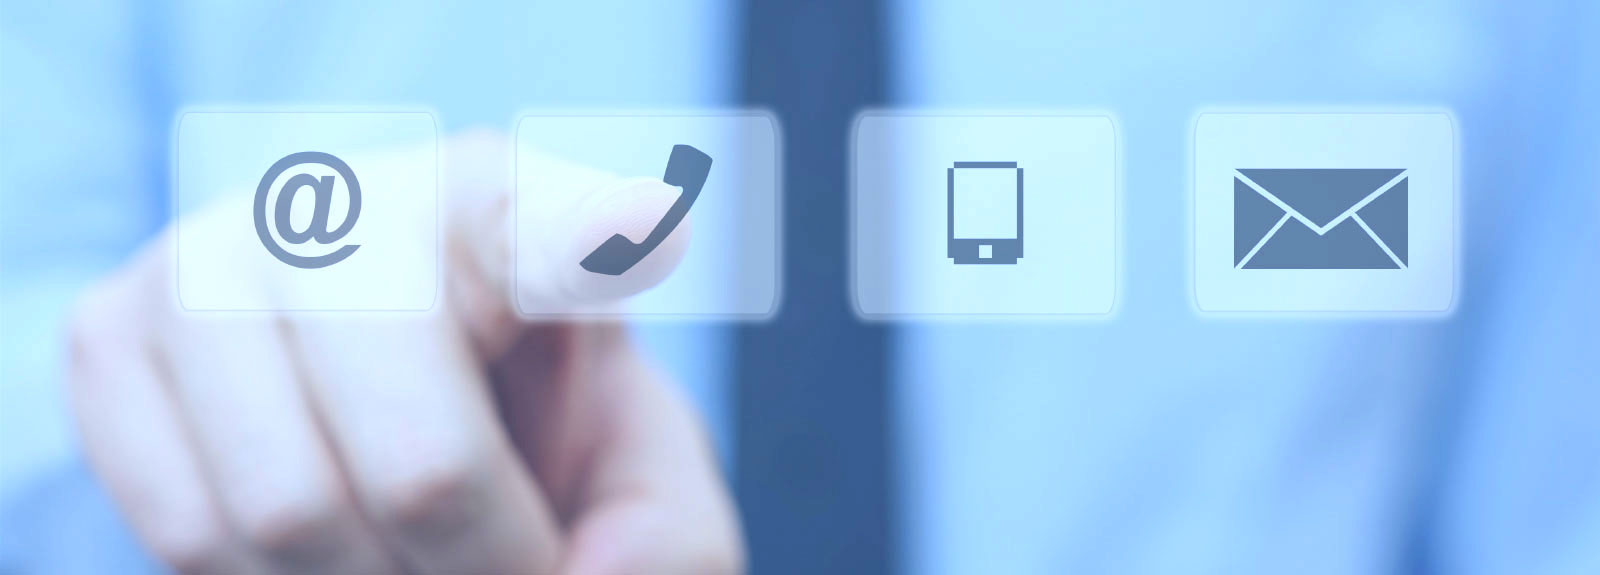
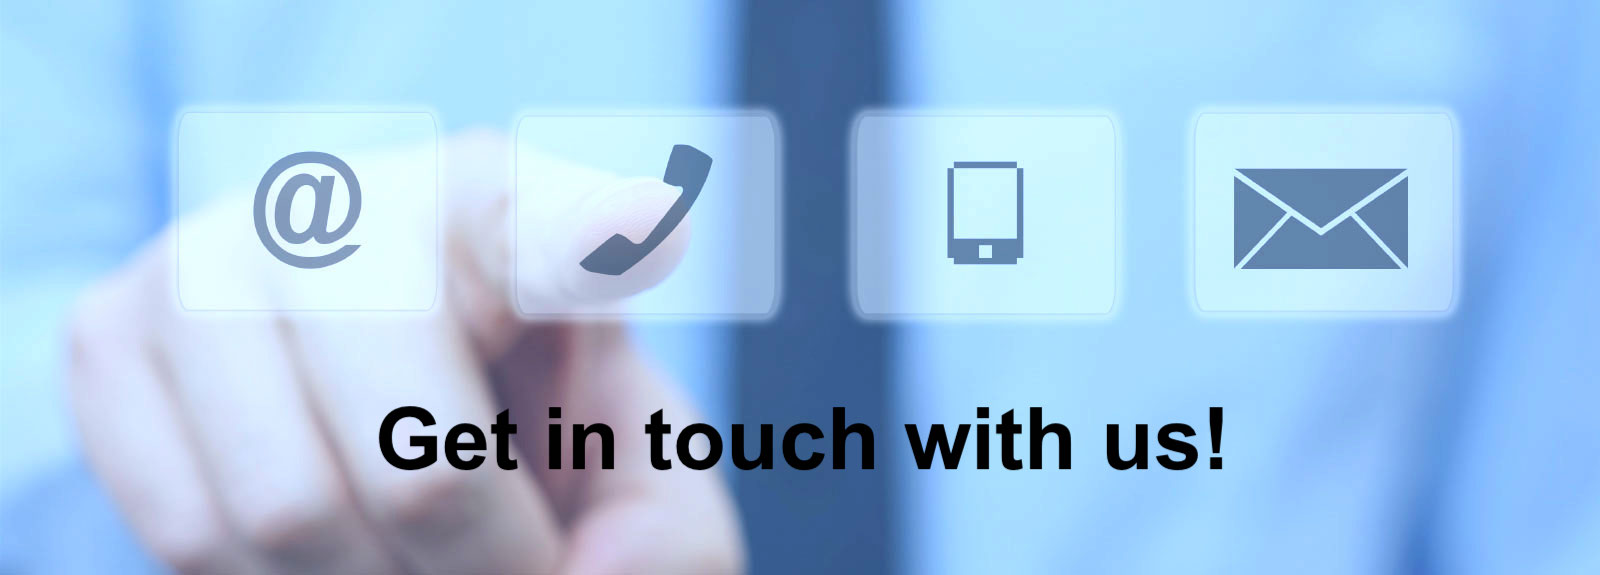
update layout

Changed region(s): [[0.2188, 0.7096, 0.7812, 0.8278]]

diff --git a/pages/AboutUs.vue b/pages/AboutUs.vue
@@ -3,80 +3,82 @@
     <Breadcumb
       :group="'About Us'"
     ></Breadcumb>
-  <div class="container">
-    <br>
-    <h2 class="title-topic-single">About Us</h2>
-    <hr>
-    <br>
-    <br>
-    <br>
-    <div class="row">
-      <div class="col-sm align-self-center">
-        <img class="rounded img-aboutus img-fluid" src="~/assets/img/aboutus1.jpg">
-      </div>
-      <div class="col-sm align-self-center">
-        <p>Founded in Italy in 2000, today TopTech is a multinational group that focuses its consulting offering on
-          hard technology challenges with large-scale business impact in data bases, security, IoT and machine
-          learning.</p>
-      </div>
-    </div>
-    <br>
-    <br>
-    <br>
-    <div class="row">
-      <div class="col-sm align-self-center">
-        <p>TopTech started as a research spinoff at Politecnico of Milan and was incubated at its startup accelerator.
-          Data and experimentation are part of our DNA.</p>
-      </div>
-      <div class="col-sm align-self-center">
-        <img class="rounded img-aboutus img-fluid" src="~/assets/img/aboutus2.jpg">
-      </div>
-    </div>
-    <br>
-    <br>
-    <br>
-    <div class="row">
-      <div class="col-sm align-self-center">
-        <img class="rounded img-aboutus img-fluid" src="~/assets/img/aboutus3.jpg">
-      </div>
-      <div class="col-sm align-self-center">
-        <p>We believe that science and engineering need to be seen as one. It is for this reason that we continuously
-          focus on research, emerging ideas, and new technologies, routinely partnering with top academic and
-          engineering research institutions.</p>
-      </div>
-    </div>
-    <br>
-    <br>
-    <br>
-    <div class="row">
-    <div class="col-sm align-self-center">
-      <p>In all we do, our goal is to build trusted relationships through client proximity, providing industry and
-        technology expertise to help you meet the needs of your customers and citizens. </p>
-    </div>
-    <div class="col-sm align-self-center">
-      <img class="img-aboutus rounded img-fluid" src="~/assets/img/aboutus4.jpg">
-    </div>
-  </div>
-    <h4 class="secondary-title">Leadership Team</h4>
-    <hr>
     <div class="container">
-      <div class="row" >
-        <div class="col-lg-4 col-sm-12"  v-for="item in managers"
-             v-bind:key="item.id">
-          <ItemPerson
-            :name="item.name"
-            :surname="item.surname"
-            :role="item.role"
-            :url = "item.id_image"
-            :id="item.id"
-          />
+      <br>
+      <div class="row">
+        <div class="col-sm align-self-center">
+          <img class="rounded img-aboutus img-fluid" src="~/assets/img/aboutus1.jpg">
+        </div>
+        <div class="col-sm align-self-center">
+          <p>Founded in Italy in 2000, today TopTech is a multinational group that focuses its consulting offering on
+            hard technology challenges with large-scale business impact in data bases, security, IoT and machine
+            learning.</p>
         </div>
       </div>
       <br>
       <br>
+      <br>
+      <div class="row">
+        <div class="col-sm align-self-center">
+          <p>TopTech started as a research spinoff at Politecnico of Milan and was incubated at its startup accelerator.
+            Data and experimentation are part of our DNA.</p>
+        </div>
+        <div class="col-sm align-self-center">
+          <img class="rounded img-aboutus img-fluid" src="~/assets/img/aboutus2.jpg">
+        </div>
+      </div>
+      <br>
+      <br>
+      <br>
+      <!--<div class="row">
+        <div class="col-sm align-self-center">
+          <img class="rounded img-aboutus img-fluid" src="~/assets/img/aboutus3.jpg">
+        </div>
+        <div class="col-sm align-self-center">
+          <p>We believe that science and engineering need to be seen as one. It is for this reason that we continuously
+            focus on research, emerging ideas, and new technologies, routinely partnering with top academic and
+            engineering research institutions.</p>
+        </div>
+      </div>-->
+      <br>
+      <br>
+      <br>
     </div>
-
-  </div>
+    <div style="background: #0071CE">
+      <br>
+      <div class="container">
+      <h4 class="secondary-title text-light">Leadership Team</h4>
+      <hr style="border: 1px solid white;">
+      <div class="container">
+        <div class="row" >
+          <div class="col-lg-4 col-sm-12"  v-for="item in managers"
+               v-bind:key="item.id">
+            <ItemPerson
+              :name="item.name"
+              :surname="item.surname"
+              :role="item.role"
+              :url = "item.id_image"
+              :id="item.id"
+            />
+          </div>
+        </div>
+        <br>
+        <br>
+      </div>
+      </div>
+    </div>
+    <div class="container">
+      <br><br>
+      <div class="row">
+        <div class="col-sm align-self-center">
+          <p>In all we do, our goal is to build trusted relationships through client proximity, providing industry and
+            technology expertise to help you meet the needs of your customers and citizens. </p>
+        </div>
+        <div class="col-sm align-self-center">
+          <img class="img-aboutus rounded img-fluid" src="~/assets/img/aboutus4.jpg">
+        </div>
+      </div>
+    </div>
   </div>
 </template>
 

diff --git a/pages/Contact.vue b/pages/Contact.vue
@@ -4,18 +4,14 @@
       :group="'Contact'"
     ></Breadcumb>
     <div class="container">
-      <br>
-      <h1 class="title-topic-single">Contact</h1>
-      <hr>
       <div class="image-contact" id="text">
         <img class="img-thumbnail img-class small_img img-responsive" src="../assets/img/Contact-Us-Header.jpg" width=80% height=80%>
-        <p class="font-italic" style="font-size: 28px;">Get in touch with us!</p>
       </div>
-      <div class="container">
+      <div class="container" >
         <div class="row">
-          <div class="col-8">
-            <div class="container">
-              <div class="row margin-grid">
+          <div class="col-8" >
+            <div class="container" style="background: #0071CE">
+              <div class="row margin-grid text-center"  >
                 <div class="col-md-6 px-2"><a class="title-city">Italy - Milan</a>
                   <br>
                   <a class="address">
@@ -31,7 +27,7 @@
                     T: +1 617 936 0212</a>
                 </div>
               </div>
-              <div class="row">
+              <div class="row text-center">
                 <div class="col-md-6 px-2 "><a class="title-city">
                   USA - Los Angeles
                 </a>
@@ -58,10 +54,17 @@
       <br>
       <div class="container">
         <div class="row">
-          <div class="col"></div>
+          <div class="col">
+            <div id="alert_message" style="text-align: center; visibility: hidden" class="alert alert-primary" role="alert">
+              Message sent correctly!
+            </div>
+            <div id="alert_message_error" style="text-align: center; visibility: hidden" class="alert alert-primary" role="alert">
+              Error. Message not sent!
+            </div>
+          </div>
           <div class="col">
             <form id="contactform" v-on:submit.prevent="submitForm" method="post">
-              <h3 style="text-align: center">Contact Us!</h3>
+              <h3 class="text-light" style="text-align: center">Contact Us!</h3>
 
               <ul>
                 <li>
@@ -86,12 +89,6 @@
               </ul>
             </form>
           </div>
-        </div>
-        <div id="alert_message" style="text-align: center; visibility: hidden" class="alert alert-primary" role="alert">
-          Message sent correctly!
-        </div>
-        <div id="alert_message_error" style="text-align: center; visibility: hidden" class="alert alert-primary" role="alert">
-          Error. Message not sent!
         </div>
       </div>
     </div>
@@ -175,7 +172,7 @@ export default {
 }
 
 a{
-  color: black;
+  color: white;
   text-decoration: none;
 }
 form {
@@ -184,7 +181,7 @@ form {
   padding: 1em;
   border: 3px solid #CCC;
   border-radius: 1em;
-  background-color: #bee5eb;
+  background-color: #0071CE;
 }
 input{
   width: 60%;
@@ -200,6 +197,7 @@ ul {
 }
 
 label {
+  color: white;
   display: inline-block;
   width: 90px;
   text-align: right;
